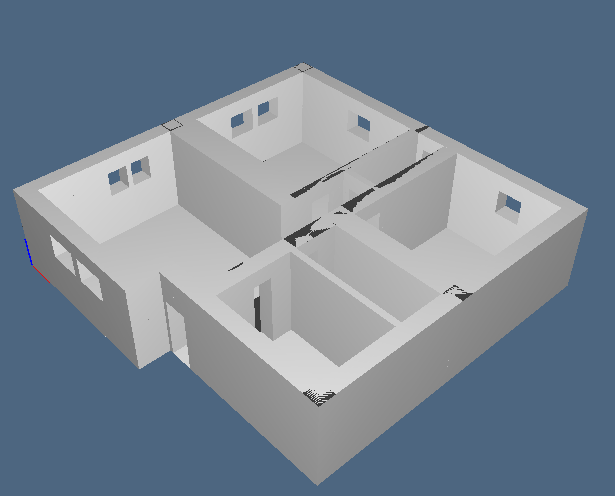
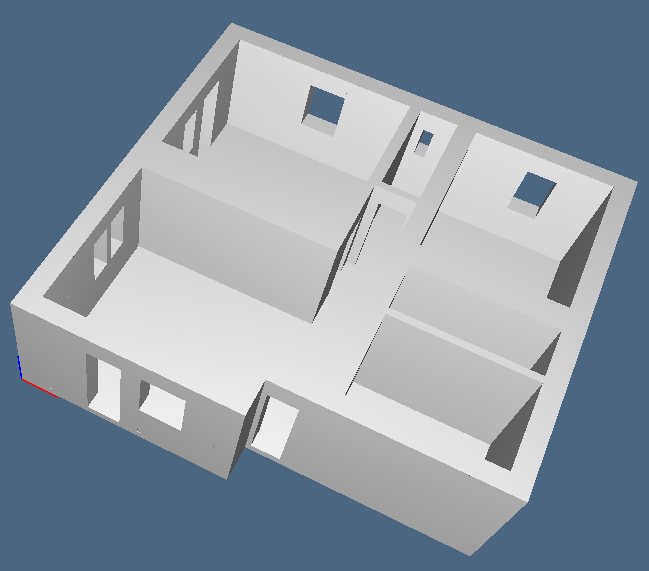
Aggiornato Homework3

diff --git a/2014-05-16/index.html b/2014-05-16/index.html
@@ -63,17 +63,7 @@
 	  		 		<p>Homework 3</p>
 	  		</header>	    
 	    </div><!-- /headerwrap -->
-	    
-	    
-	     <!-- ==== SECTION DIVIDER1 -->
-		<section class="section-divider textdivider divider1">
-			<div class="container">
-				<h1>The work</h1>
-				<hr>
-				<p></p>
-			</div><!-- container -->
-		</section><!-- section -->
-					
+
 		<!-- ==== Work ==== -->
 		<div class="container" id="work" name="work">
 			<br>
@@ -90,11 +80,15 @@
 					<div align="center"> <img src="images/fig01.png" height="600" ></div>
 					<p>With the function <b>merging_numbering_elimination</b> from Exercise3 I was able to refine it obtaining a bedroom with door and windows:</p>
 					<div align="center"> <img src="images/fig02.jpg" height="600" ></div>
-					<p>This is the apartment:</p>
+					<p>Repeating this procedure for all rooms in the house, I was able to obtain this apartment:</p>
 					<div align="center"> <img src="images/fig03.png" height="600" ></div>
-					<p><br></p>
-					<p>And this is the building</p>
+					<p><hr></p>
+					<p>In the second exercise, I composed this apartment to build an entire palace. So, I mirrored it and added some balconies obtaining this floor:</p>
 					<div align="center"> <img src="images/fig04.png" height="600" ></div>
+					<p>I also realised a spiral stair to link al floors:</p>
+					<div align="center"> <img src="images/fig05.png" height="600" ></div>
+					<p>Finally I assembled all this parts with a ground floor and a roof:</p>
+					<div align="center"> <img src="images/fig06.png" height="600" ></div>
 				</div><!-- col-lg -->
 			</div><!-- row -->		
 		<div class="container" id="exercises" name="exercises">

diff --git a/2014-05-16/python/exercise2.py b/2014-05-16/python/exercise2.py
@@ -3,14 +3,15 @@ Created on 17/mag/2014
 
 @author: Salvati Danilo
 '''
-from pyplasm import BEZIER, S1, S2;
+from pyplasm import S1, S2;
 from mapper import larScale, larTranslate, larMap, larDomain
 from exercise1 import house, DRAW, height, mergeModelsList, wall_thickness, \
     mergeModels
 from architectural import spiralStair
 from largrid import larModelProduct
 from sysml import assemblyDiagramInit
-from exercise3 import merging_numbering_elimination, drawCells
+from exercise3 import merging_numbering_elimination
+from splines import larBezier
 
 
 
@@ -62,7 +63,7 @@ basement = merging_numbering_elimination(basement)()()([4]);
 
 
 shape = [9, 2, 4];
-sizePatterns = [[0.01, 5.25, 1.0, 0.25, 1.0, 0.25, 1.0, 5.25, 0.01], [wall_thickness, 2.5], [0.20, 1.5, height - 2, 0.5]];
+sizePatterns = [[0.01, 5.25, 1.0, 0.25, 1.0, 0.25, 1.0, 5.25, 0.01], [wall_thickness, 2.5], [0.20, 1.5, height - 2, 0.51]];
 wall = assemblyDiagramInit(shape)(sizePatterns);
 
 
@@ -81,34 +82,112 @@ V, CV = wall2;
 V = larTranslate([11.3, 11.0 - wall_thickness, 0.0])(V);
 wall2 = V, CV;
 
+# Assemblo tutti i componenti
+floor = mergeModelsList(house)([mirrored_house, basement, wall, wall2]);
 
-# Disegno dei balconi
+##############################################################################
+################################### BALCONI ##################################
+##############################################################################
 
-balcony1 = assemblyDiagramInit([3, 3, 3])([[0.2, 3.3, 0.2], [0.2, 2.0, 0.2], [0.2, 1, 0.01]]);
+# Creo dei balconi
+
+# Costruisco una superficie con larBezier
+domain = larDomain([24, 24]);
+
+controlPoints1 = [[0.0, 0], [1.8, 0], [3.6, 0]];
+controlPoints2 = [[0.0, -0.5], [1.8, -0.5], [3.6, -0.5]];
+controlPoints3 = [[0.0, -1], [1.8, -2], [3.6, -1]];
+
+b1 = larBezier(S1)(controlPoints1);
+b2 = larBezier(S1)(controlPoints2);
+b3 = larBezier(S1)(controlPoints3);
+
+mapping0 = larBezier(S2)([b1, b2, b3]);
+surface0 = larMap(mapping0)(domain);
+
+balcony_wall_V = [[0], [-0.8]];
+
+balcony_wall_CV = [[0, 1]];
+
+balcony_wall = balcony_wall_V, balcony_wall_CV;
+
+# Passo dalla superficie ad un solido tridimensionale
+balcony1 = larModelProduct([surface0, balcony_wall]);
+
+balcony_wall2_V = [[0.0], [-0.2]];
+balcony_wall2 = balcony_wall2_V, balcony_wall_CV;
+balcony1_2 = larModelProduct([surface0, balcony_wall2]);
+V, CV = balcony1_2;
+V = larTranslate([0.0, 0.0, -0.8])(V);
+
+balcony1_2 = V, CV;
+
+# Unisco le due meta'
+balcony1 = mergeModels(balcony1)(balcony1_2);
+
+toRemove = sum([range(i * 24, i * 24 + 22) for i in range(1, 23)], []);
+
+# Svuoto il blocco
+balcony1 = merging_numbering_elimination(balcony1)()()(toRemove);
+
 V, CV = balcony1;
-V = larTranslate([1.2, -2.0, 0.0])(V);
+V = larTranslate([1.2, 0.0, 1.0])(V);
 balcony1 = V, CV;
-balcony1 = merging_numbering_elimination(balcony1)()()([13, 14, 15, 16, 17]);
-V, CV = balcony1;
+
+
 V = larTranslate([19.0, 0.0, 0.0])(V);
 balcony2 = V, CV;
 
-balcony3 = assemblyDiagramInit([4, 4, 3])([[0.2, 1.5, 4.5, 0.2], [0.2, 3.5, 2.0, 0.2], [0.2, 1, 0.01]]);
-balcony3 = merging_numbering_elimination(balcony3)()()([16, 17, 19, 20, 24, 25, 26,
-                                                        27, 28, 29, 31, 32, 36, 37,
-                                                        38, 39, 40, 41]);
+
+# Ora disegno i balconi della parte posteriore
+
+domain = larDomain([48, 24]);
+
+controlPoints1 = [[0, 0.5], [0, 0], [6, 6], [0, 10], [-7, 7.5], [-4.2, 5]];
+controlPoints2 = [[0, 0.5], [0.2, 0], [6.4, 6.2], [0.2, 10], [-7.2, 7.5], [-4.2, 5]];
+controlPoints3 = [[0, 5], [-4.2, 5]];
+
+b1 = larBezier(S1)(controlPoints1);
+b2 = larBezier(S1)(controlPoints2);
+b3 = larBezier(S1)(controlPoints3);
+
+mapping0 = larBezier(S2)([b1, b2, b3]);
+surface0 = larMap(mapping0)(domain);
+
+# Passo dalla superficie ad un solido tridimensionale
+balcony3 = larModelProduct([surface0, balcony_wall]);
+
+balcony3_2 = larModelProduct([surface0, balcony_wall2]);
+V, CV = balcony3_2;
+V = larTranslate([0.0, 0.0, -0.8])(V);
+
+balcony3_2 = V, CV;
+
+# Unisco le due meta'
+balcony3 = mergeModels(balcony3)(balcony3_2);
+
+
+# Per comodita' (poiche' vi sono molte celle) svuoto il balcone in due passate
+
+toRemove = sum([range(i * 24 + 5, i * 24 + 20) for i in range(0, 45)], []);
+
+# Svuoto il blocco
+balcony3 = merging_numbering_elimination(balcony3)()()(toRemove);
+
+toRemove = sum([range(5 + i * 9, 9 + i * 9) for i in range(0, 45)], []);
+
+balcony3 = merging_numbering_elimination(balcony3)()()(toRemove);
 
 V, CV = balcony3;
 # Definisco i vertici del balcone speculare
 V2 = larScale([-1, 1, 1])(V);
-V = larTranslate([-1.5, 7.0, 0.0])(V);
+V2 = larTranslate([0.0, 6.0, 1.0])(V2);
+V = larTranslate([25.0, 6.0, 1.0])(V);
 balcony3 = V, CV;
-V2 = larTranslate([26.5, 7.0, 0.0])(V2);
 balcony4 = V2, CV;
 
+floor = mergeModelsList(floor)([balcony1, balcony2, balcony3, balcony4]);
 
-# Assemblo tutti i componenti
-floor = mergeModelsList(house)([mirrored_house, basement, wall, wall2, balcony1, balcony2, balcony3, balcony4]);
 ##############################################################################
 ################################ GROUND FLOOR ################################
 ##############################################################################
@@ -124,18 +203,18 @@ ground_floor = merging_numbering_elimination(ground_floor)()()([7, 11, 17, 18, 1
 
 # Adesso costruisco la hall
 
-# Costruisco una superficie con Bezier
+# Costruisco una superficie con larBezier
 domain = larDomain([24, 24]);
 
 controlPoints1 = [[10, 0], [12.5, 0], [15, 0]];
 controlPoints2 = [[10, -1], [12.5, -1], [15, -1]];
 controlPoints3 = [[10, -3], [12.5, -4], [15, -3]];
 
-b1 = BEZIER(S1)(controlPoints1);
-b2 = BEZIER(S1)(controlPoints2);
-b3 = BEZIER(S1)(controlPoints3);
+b1 = larBezier(S1)(controlPoints1);
+b2 = larBezier(S1)(controlPoints2);
+b3 = larBezier(S1)(controlPoints3);
 
-mapping0 = BEZIER(S2)([b1, b2, b3]);
+mapping0 = larBezier(S2)([b1, b2, b3]);
 surface0 = larMap(mapping0)(domain);
 
 hall_wall_V = [[0], [-1]];
@@ -173,8 +252,6 @@ V, CV = stair;
 
 V = larTranslate([12.5, 2.5, -2.8])(V);
 stair = V, CV;
-
-palace = mergeModelsList(floor)([stair, hall]);
 ##############################################################################
 #################################### TETTO ###################################
 ##############################################################################

diff --git a/2014-05-16/python/exercise1.py b/2014-05-16/python/exercise1.py
@@ -87,14 +87,14 @@ diagram = assemblyDiagramInit(shape)(sizePatterns);
 living_room = merging_numbering_elimination(living_room)(diagram)(31)([37, 38, 39]);
 
 shape = [5, 1, 3];
-sizePatterns = [[0.75 + wall_thickness, 0.80, 0.45, 1.0, 0.75], [wall_thickness], [1.5, height - 2, 0.5]];
+sizePatterns = [[0.75 + wall_thickness, 0.80, 0.45, 1.0, 0.75], [wall_thickness], [1.0, height - 1.5, 0.5]];
 diagram = assemblyDiagramInit(shape)(sizePatterns);
 
 # Creo la finestra
 living_room = merging_numbering_elimination(living_room)(diagram)(13)([42, 43, 49]);
 
 shape = [1, 5, 3];
-sizePatterns = [[wall_thickness], [1.37 + wall_thickness, 1.0, 0.25, 1.0, 1.38], [1.5, height - 2, 0.5]];
+sizePatterns = [[wall_thickness], [1.37 + wall_thickness, 1.0, 0.25, 1.0, 1.38], [1.0, height - 1.5, 0.5]];
 diagram = assemblyDiagramInit(shape)(sizePatterns);
 
 # Creo un'altra finestra
@@ -175,7 +175,7 @@ diagram = assemblyDiagramInit(shape)(sizePatterns);
 bedroom1 = merging_numbering_elimination(bedroom1)(diagram)(20)([27, 28]);
 
 shape = [3, 1, 3];
-sizePatterns = [[1.7 + wall_thickness, 1.0, 1.7], [wall_thickness], [1.5, height - 2, 0.5]];
+sizePatterns = [[1.7 + wall_thickness, 1.0, 1.7], [wall_thickness], [1.0, height - 1.5, 0.5]];
 diagram = assemblyDiagramInit(shape)(sizePatterns);
 
 # Creo la finestra
@@ -183,11 +183,11 @@ bedroom1 = merging_numbering_elimination(bedroom1)(diagram)(14)([34]);
 
 
 shape = [1, 5, 3];
-sizePatterns = [[wall_thickness], [1.0 + wall_thickness, 0.75, 0.50, 1.0, 1.25], [1.5, height - 2, 0.5]];
+sizePatterns = [[wall_thickness], [1.0 + wall_thickness, 0.75, 0.50, 1.0, 1.25], [1.0, height - 1.5, 0.5]];
 diagram = assemblyDiagramInit(shape)(sizePatterns);
 
 # Creo un'altra finestra
-bedroom1 = merging_numbering_elimination(bedroom1)(diagram)(4)([41,46, 47]);
+bedroom1 = merging_numbering_elimination(bedroom1)(diagram)(4)([41, 46, 47]);
 
 V, CV = bedroom1;
 
@@ -217,7 +217,7 @@ diagram = assemblyDiagramInit(shape)(sizePatterns);
 bedroom2 = merging_numbering_elimination(bedroom2)(diagram)(4)([27, 28]);
 
 shape = [3, 1, 3];
-sizePatterns = [[1.55 + wall_thickness, 1.0, 1.55], [wall_thickness], [1.5, height - 2, 0.5]];
+sizePatterns = [[1.55 + wall_thickness, 1.0, 1.55], [wall_thickness], [1.0, height - 1.5, 0.5]];
 diagram = assemblyDiagramInit(shape)(sizePatterns);
 
 # Creo la finestra
